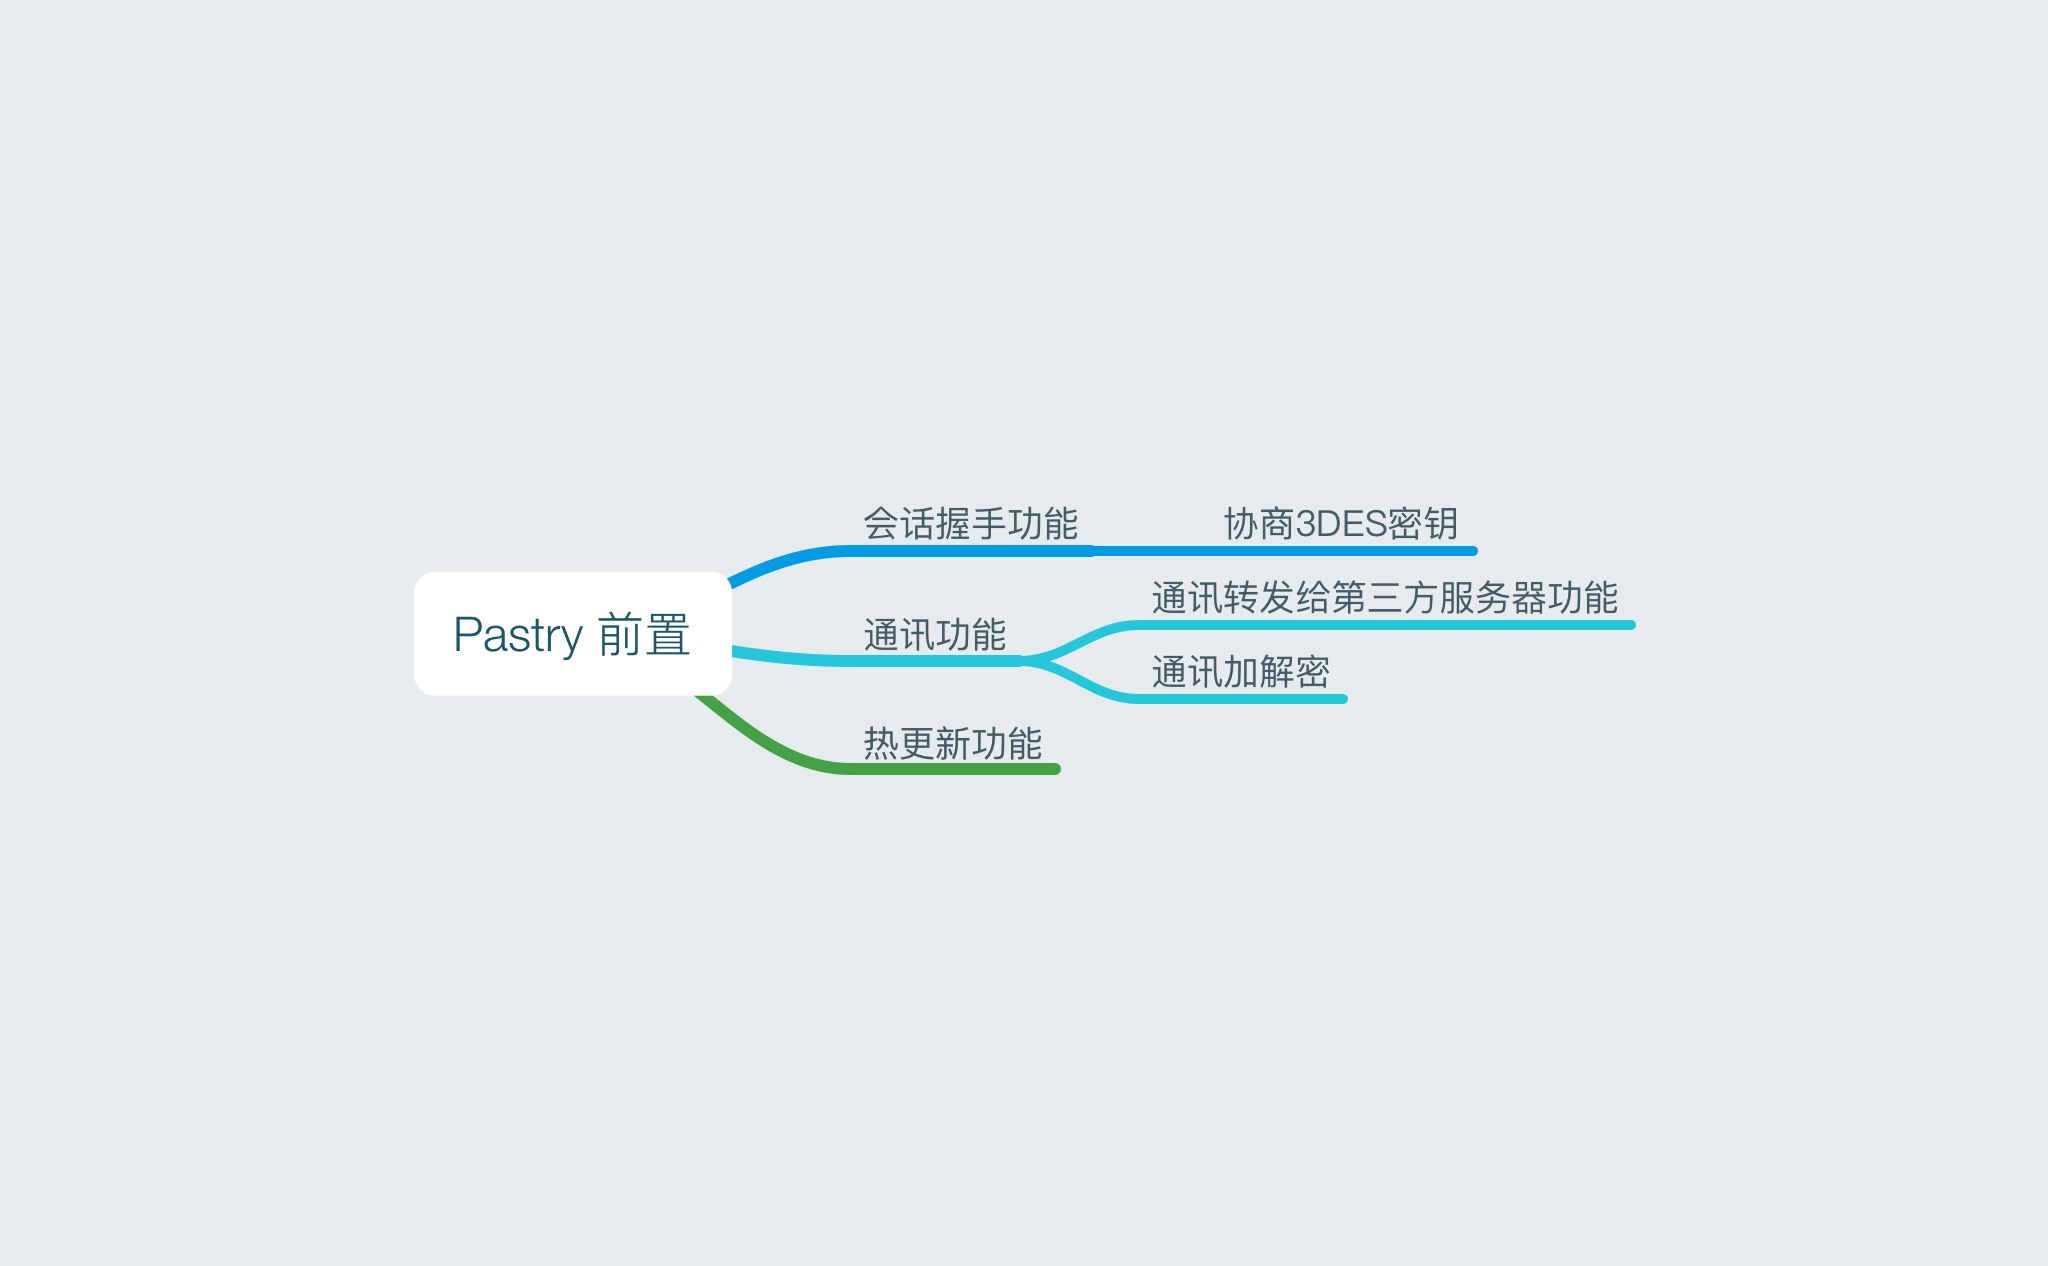
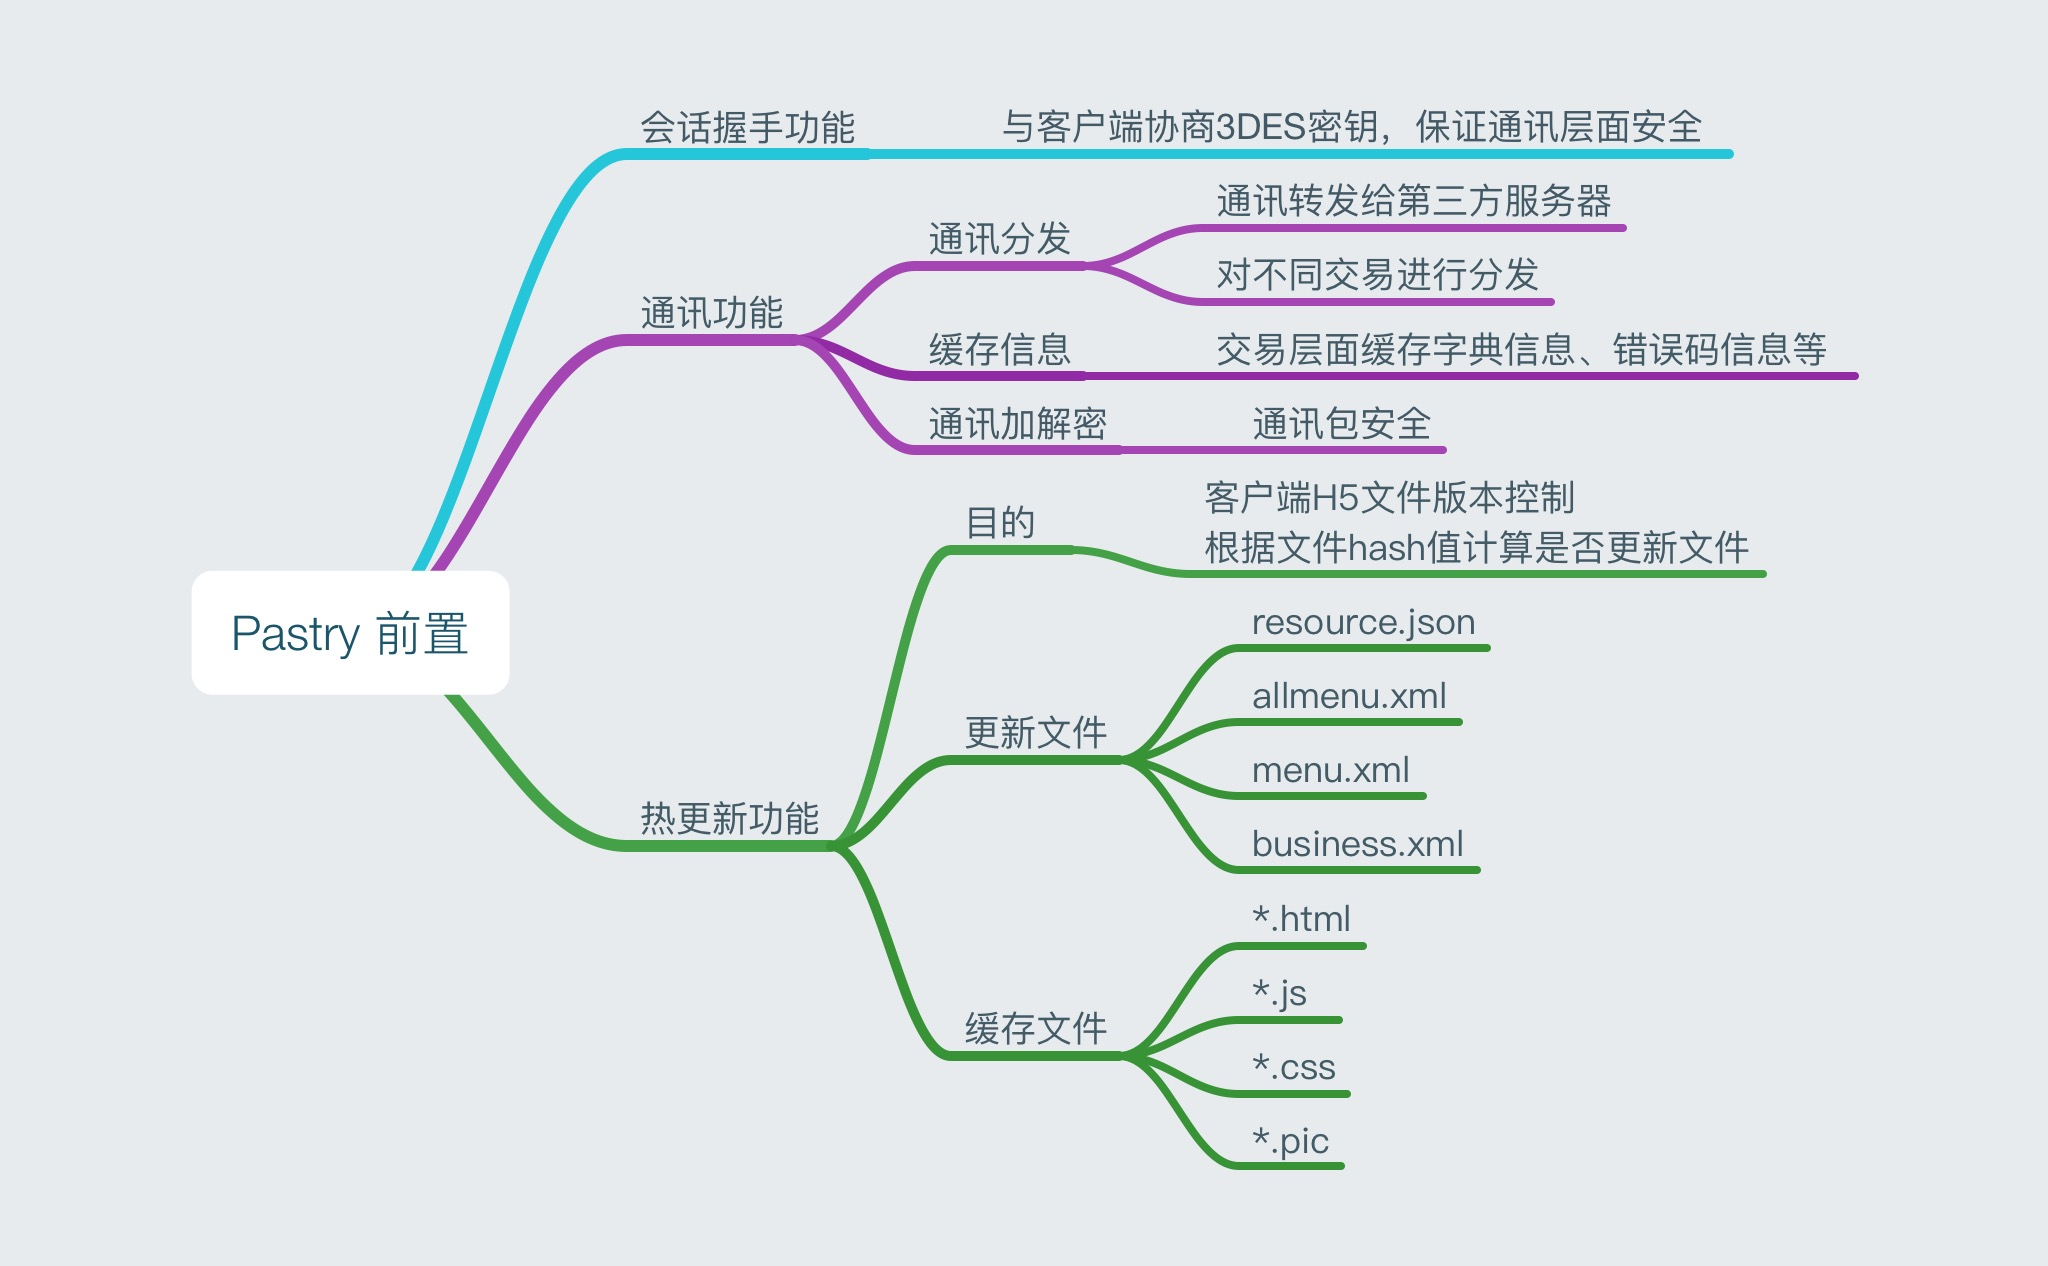
修改 前置 的思维导图

diff --git a/pastry/issues/11-思维导图 - Pastry 前置.md b/pastry/issues/11-思维导图 - Pastry 前置.md
@@ -1,4 +1,4 @@
-* [ ] Pastry 前置 思维导图
+* [x] Pastry 前置 思维导图
 
     ![pastry wiki 里 pastry/issues/11-思维导图 - Pastry 前置/思维导图 - Pastry 前置.mindnode](https://pastryteam.github.io/pastry/issues/0-images/11/11-1.png)
 
